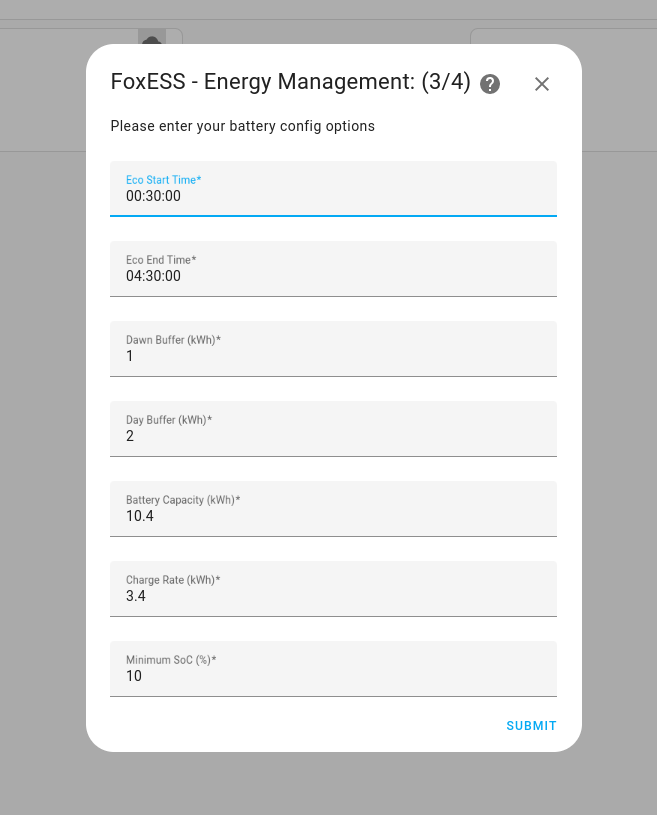
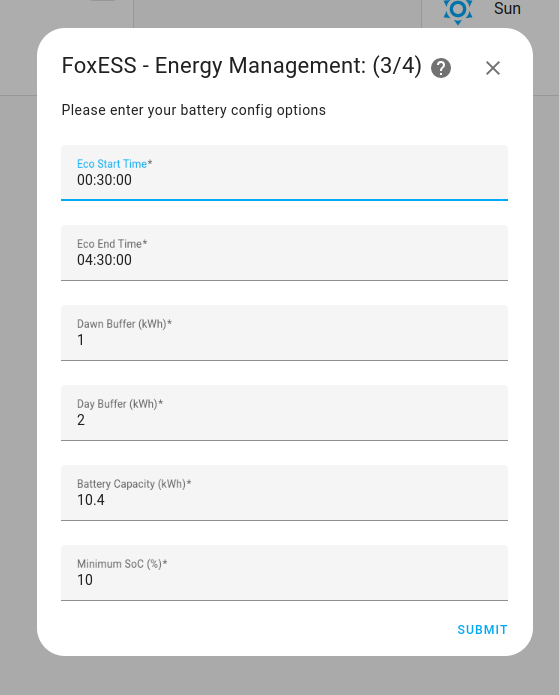
Updated readme

Changed region(s): [[0.0608, 0.0, 0.9732, 0.9669], [0.1825, 0.5137, 0.3041, 0.5439]]

diff --git a/README.md b/README.md
@@ -84,7 +84,6 @@ Enter your desired battery parameters:
 - **Dawn Buffer**: As forecasts and usage patterns can change, leave a buffer to ensure the battery doesn't get too close to empty
 - **Day Buffer**: As above, but for the day
 - **Battery Capacity**: Capacity of battery in kWh
-- **Charge Rate**: Typical charge rate observed through a charging window (usually inverter output (i.e. 3.6kw minus standing hour load)
 - **Minimum SoC**: Minimum State of Charge as set in the FoxESS App
 
 ![Battery Params](images/config-step-3.png)
@@ -109,21 +108,25 @@ Enter your desired battery parameters:
 
 Description of sensors:
 
-| Sensor                    | Description                                                                            | Attributes                                                                        |
-| ------------------------- | -------------------------------------------------------------------------------------- | --------------------------------------------------------------------------------- |
-| Capacity: Charge Needed   | Charge needed for the next off-peak period                                             | Dawn charge needed </br> Day charge needed </br> Charge start time </br> Target % |
-| Capacity: Dawn            | Forecasted battery capacity at dawn                                                    |                                                                                   |
-| Capacity: Eco End         | Forecasted battery capacity at the end of the off-peak period                          |                                                                                   |
-| Capacity: Eco Start       | Forecasted battery capacity at the start of the off-peak period                        |                                                                                   |
-| Capacity: Next Dawn Time  | Forecasted next dawn time (i.e. solar output > house load)                             |                                                                                   |
-| Forecast: API Count       | Number of hits against the Solcast API                                                 |                                                                                   |
-| Forecast: Today           | Forecasted solar output for today                                                      |                                                                                   |
-| Forecast: Today Remaining | Forecasted solar output remaining (resampled to 1Min for continual updates)            |                                                                                   |
-| Forecast: Tomorrow        | Forecasted solar output for tomorrow                                                   |                                                                                   |
-| Last Update               | Last update time                                                                       | Battery last update</br> Forecast last update</br> Average last update</br>       |
-| Load: Daily               | Total load, averaged over the last 2 complete days                                     |                                                                                   |
-| Load: Last 15m            | Average load for the last 15 minutes                                                   |                                                                                   |
-| Load: Peak                | Peak only load (i.e. outside of the Go period), averaged over the last 2 complete days |                                                                                   |
+Notes:
+
+- a negative capacity value indicates surplus charge available
+- all capacity values are forward looking to the next period once past the eco-start time</br>
+
+| Sensor                    | Description                                                                            | Attributes                                                                  |
+| ------------------------- | -------------------------------------------------------------------------------------- | --------------------------------------------------------------------------- |
+| Capacity: Charge Needed   | Charge needed for the next off-peak period                                             | Dawn charge needed </br> Day charge needed </br> Target %                   |
+| Capacity: Dawn            | Forecasted battery capacity at dawn                                                    |                                                                             |
+| Capacity: Eco End         | Forecasted battery capacity at the end of the off-peak period                          |                                                                             |
+| Capacity: Eco Start       | Forecasted battery capacity at the start of the off-peak period                        |                                                                             |
+| Capacity: Next Dawn Time  | Forecasted next dawn time (i.e. solar output > house load)                             |                                                                             |
+| Forecast: API Count       | Number of hits against the Solcast API                                                 |                                                                             |
+| Forecast: Today           | Forecasted solar output for today                                                      |                                                                             |
+| Forecast: Today Remaining | Forecasted solar output remaining (resampled to 1Min for continual updates)            |                                                                             |
+| Forecast: Tomorrow        | Forecasted solar output for tomorrow                                                   |                                                                             |
+| Last Update               | Last update time                                                                       | Battery last update</br> Forecast last update</br> Average last update</br> |
+| Load: Daily               | Total load, averaged over the last 2 complete days                                     |                                                                             |
+| Load: Peak                | Peak only load (i.e. outside of the Go period), averaged over the last 2 complete days |                                                                             |
 
 </details>
 
